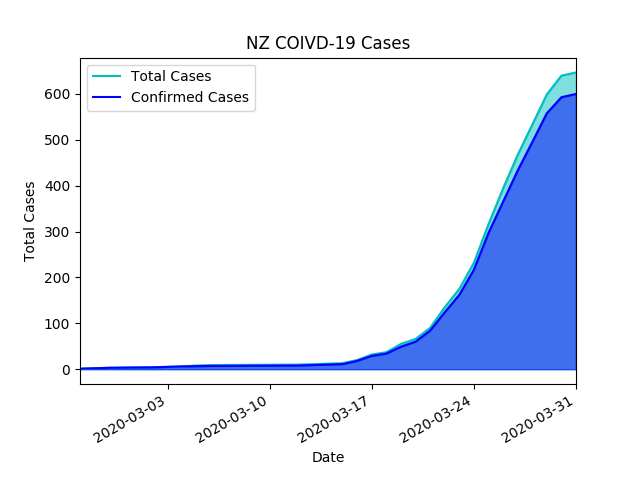
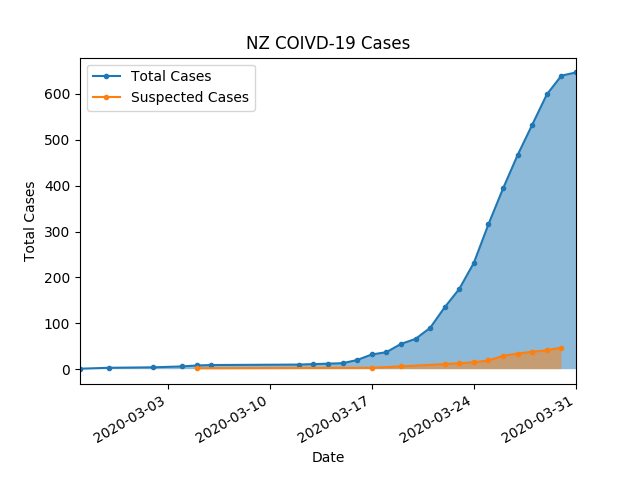
Slight graph improvements

Changed region(s): [[0.125, 0.125, 0.9062, 0.7812], [0.1562, 0.1562, 0.3125, 0.2188]]

diff --git a/NZModel/nz_data.py b/NZModel/nz_data.py
@@ -38,34 +38,42 @@ plt.figure()
 #d = rates_total.index.values # For Numpy
 #plt.fill_between(d, rates_total, alpha=0.5, color='c')
 
-rates.plot(style = 'b-')
-d = rates.index.values # For Numpy
-plt.fill_between(d, rates, alpha=0.3, color='b')
+d = rates_total.index.values # For Numpy
+plt.bar(d, rates_total)
+
+d = rates_sus.index.values # For Numpy
+plt.bar(d, rates_sus)
+
+
+plt.legend(["Confirmed Cases", "Suspected Cases"])
+
+
+#rates.plot.bar()
+#rates_sus.plot.bar()
 
 plt.xlabel("Date")
 plt.ylabel("Cases per day")
 plt.title("NZ COIVD-19 Cases")
-#plt.legend(["Total Cases", "Confirmed Cases"])
 
 plt.savefig("NZCasesPerDay.png")
 
 plt.figure()
 
-rc = rates.cumsum()
+rc_sus = rates_sus.cumsum()
 rc_total = rates_total.cumsum()
 
-rc_total.plot(style = 'c-')
+rc_total.plot(style = '.-')
 d = rc_total.index.values # For Numpy
-plt.fill_between(d, rc_total, alpha=0.5, color='c')
+plt.fill_between(d, rc_total, alpha=0.5)
 
-rc.plot(style = 'b-')
-d = rc.index.values # For Numpy
-plt.fill_between(d, rc, alpha=0.5, color='b')
+rc_sus.plot(style = '.-')
+d = rc_sus.index.values # For Numpy
+plt.fill_between(d, rc_sus, alpha=0.5)
 
 plt.xlabel("Date")
 plt.ylabel("Total Cases")
 plt.title("NZ COIVD-19 Cases")
-plt.legend(["Total Cases", "Confirmed Cases"])
+plt.legend(["Total Cases", "Suspected Cases"])
 plt.savefig("NZCases.png")
 plt.gca().set_yscale('log')
 plt.savefig("NZCasesLog.png")
